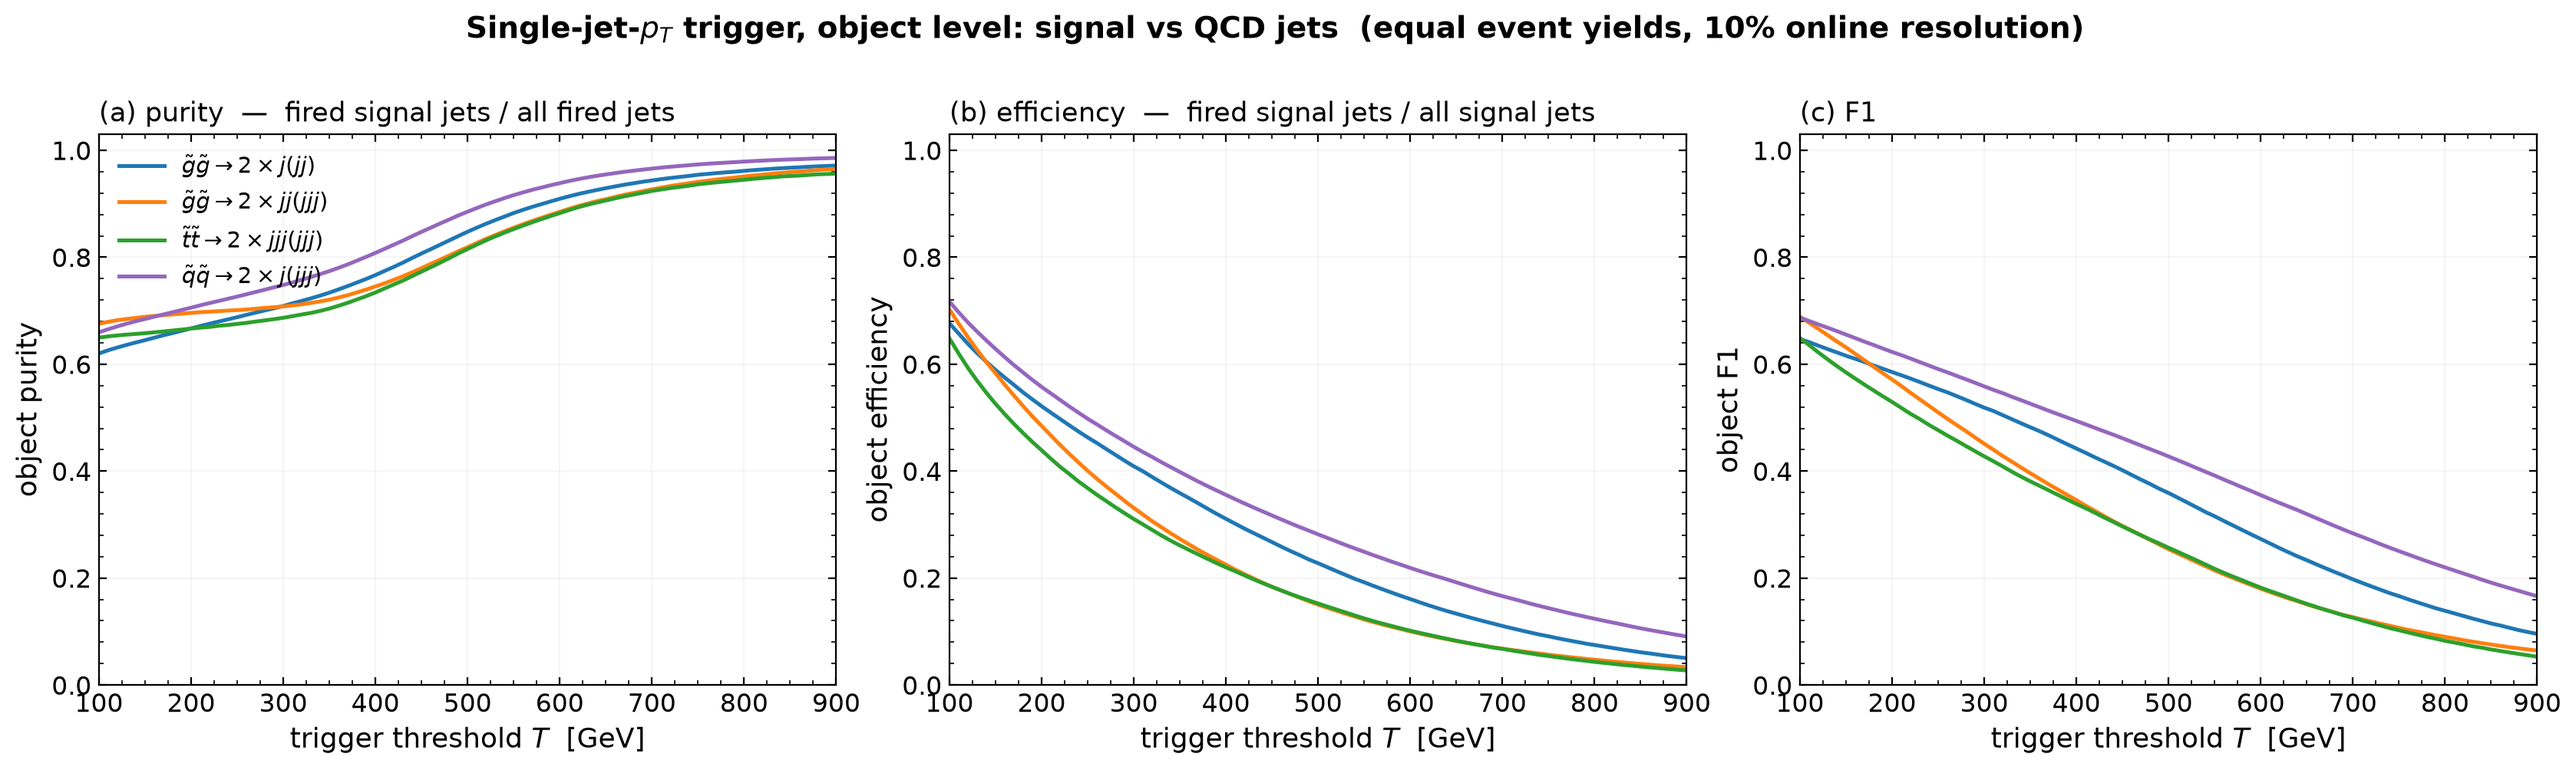
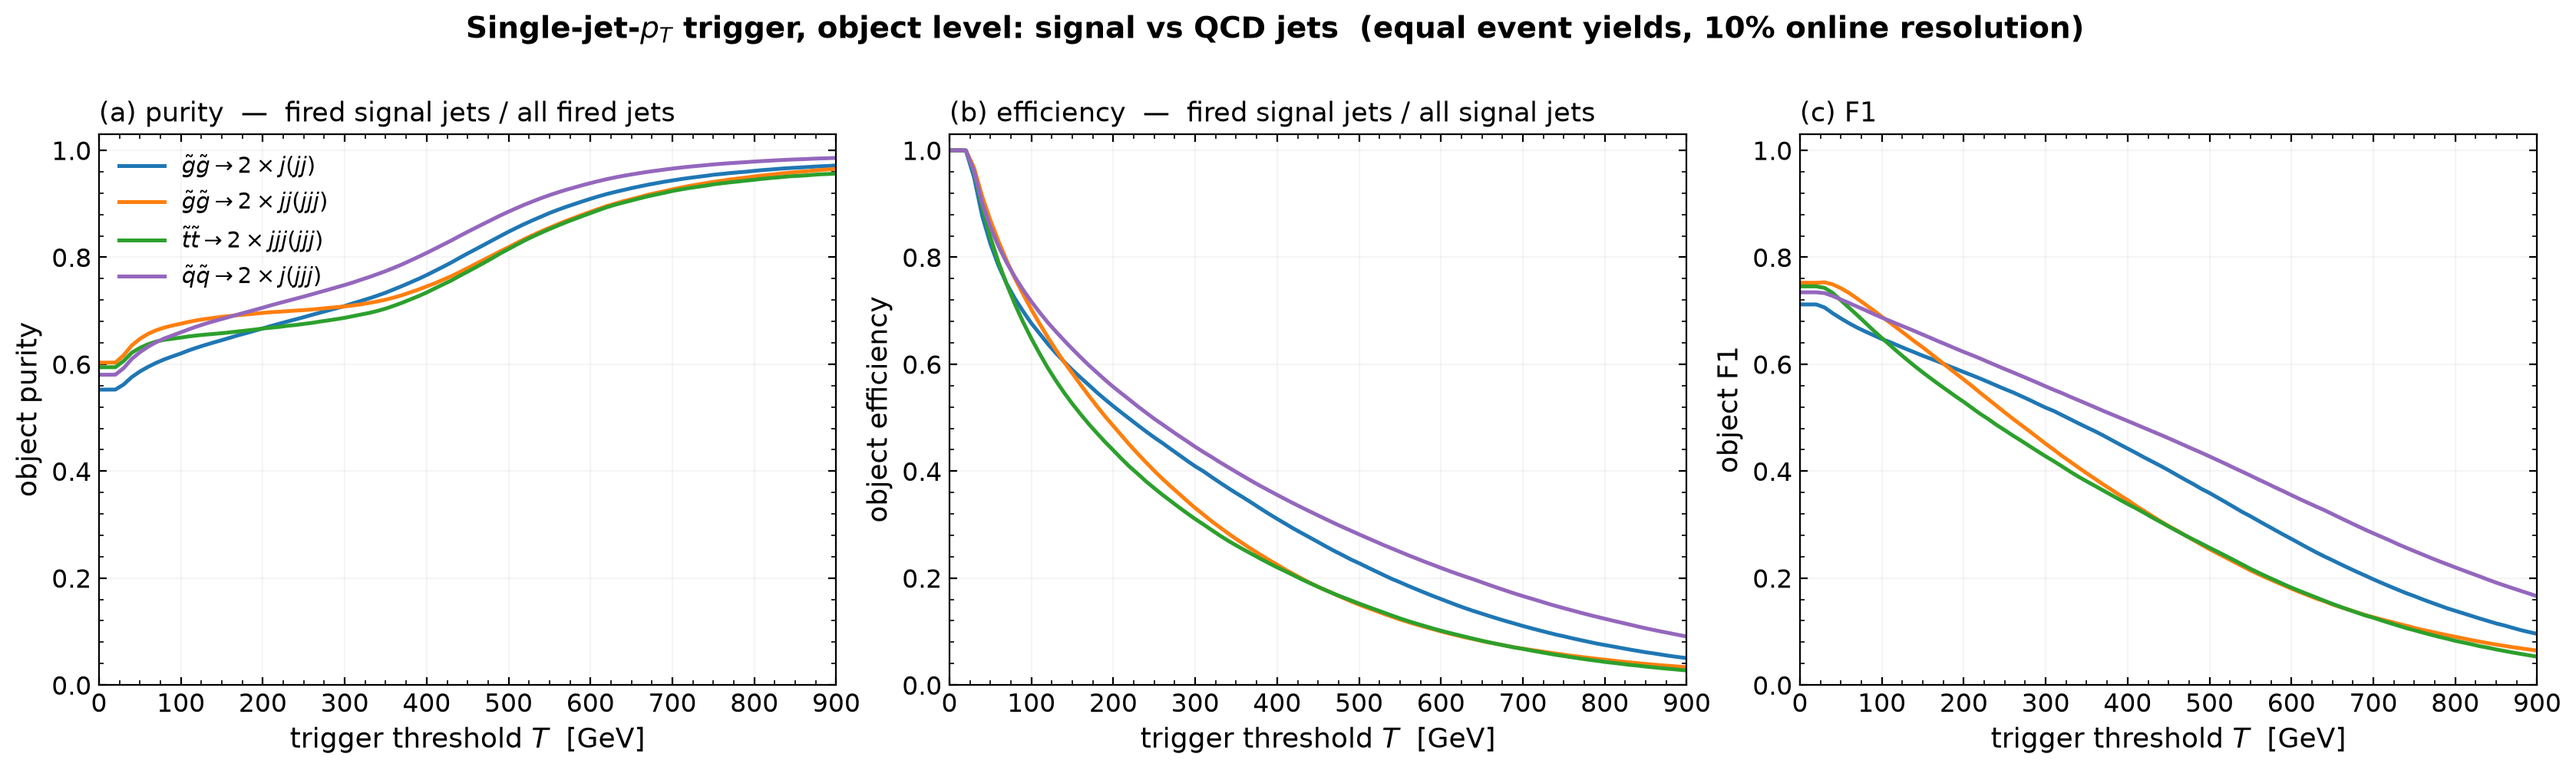
trigger purity/F1: extend threshold scan down to 0 GeV
Efficiency now starts at 1.0 and purity at the baseline jet composition
(0.55-0.62); best F1 0.71-0.75 near T=0-30 GeV.

diff --git a/scripts/trigger_purity_f1.py b/scripts/trigger_purity_f1.py
@@ -35,7 +35,7 @@ def load_jets(f):
 def online(pt):
     return pt * (1.0 + RES * rng.standard_normal(pt.shape))
 
-T_SCAN = np.linspace(100, 900, 81)
+T_SCAN = np.linspace(0, 900, 91)
 
 bkg_pt, bkg_nev = load_jets(BKG[0])
 bkg_online = online(bkg_pt)
